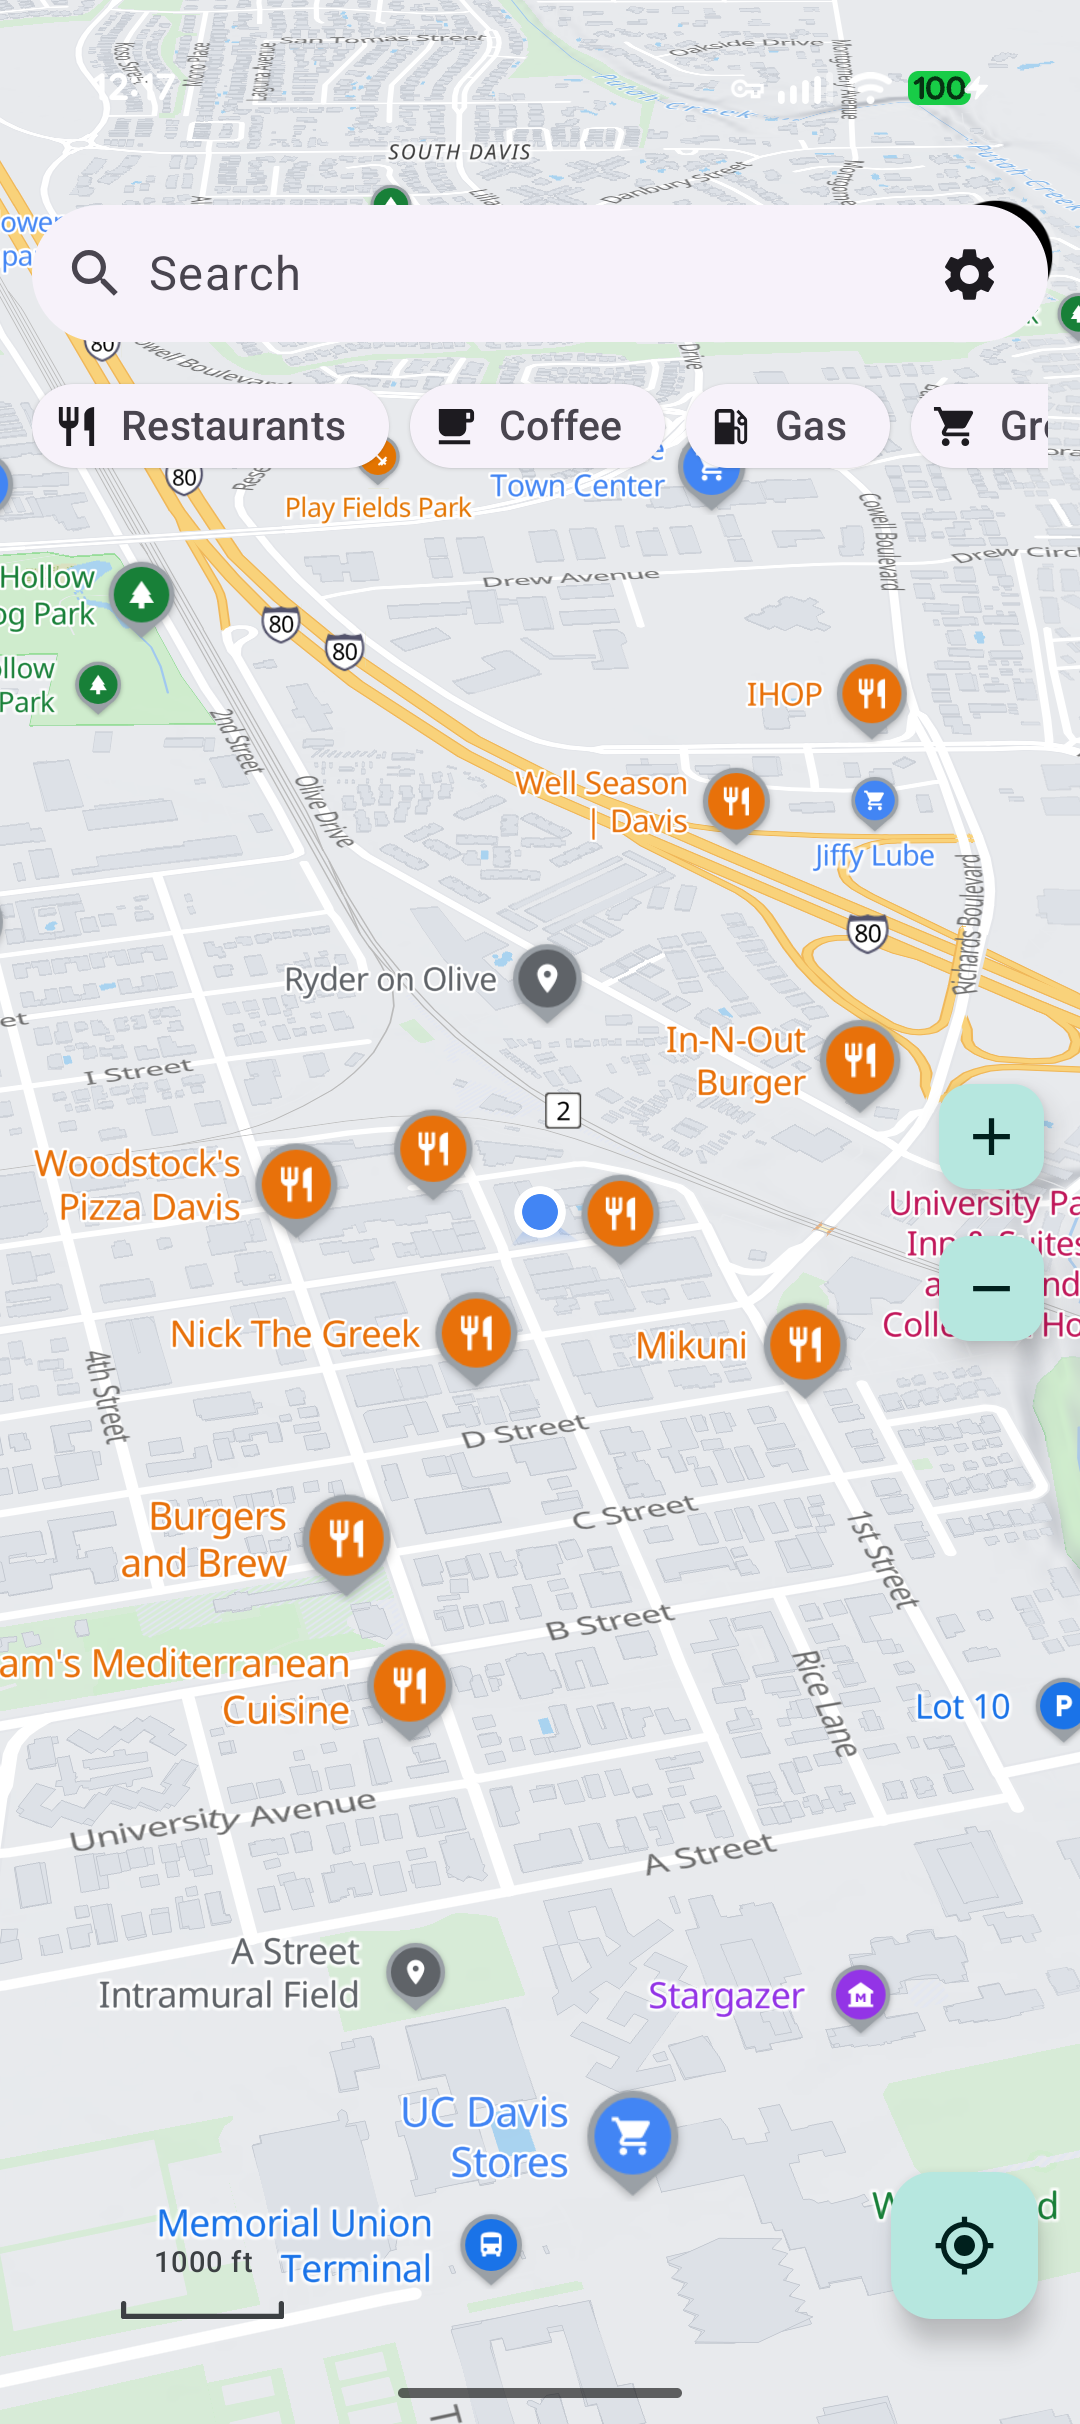
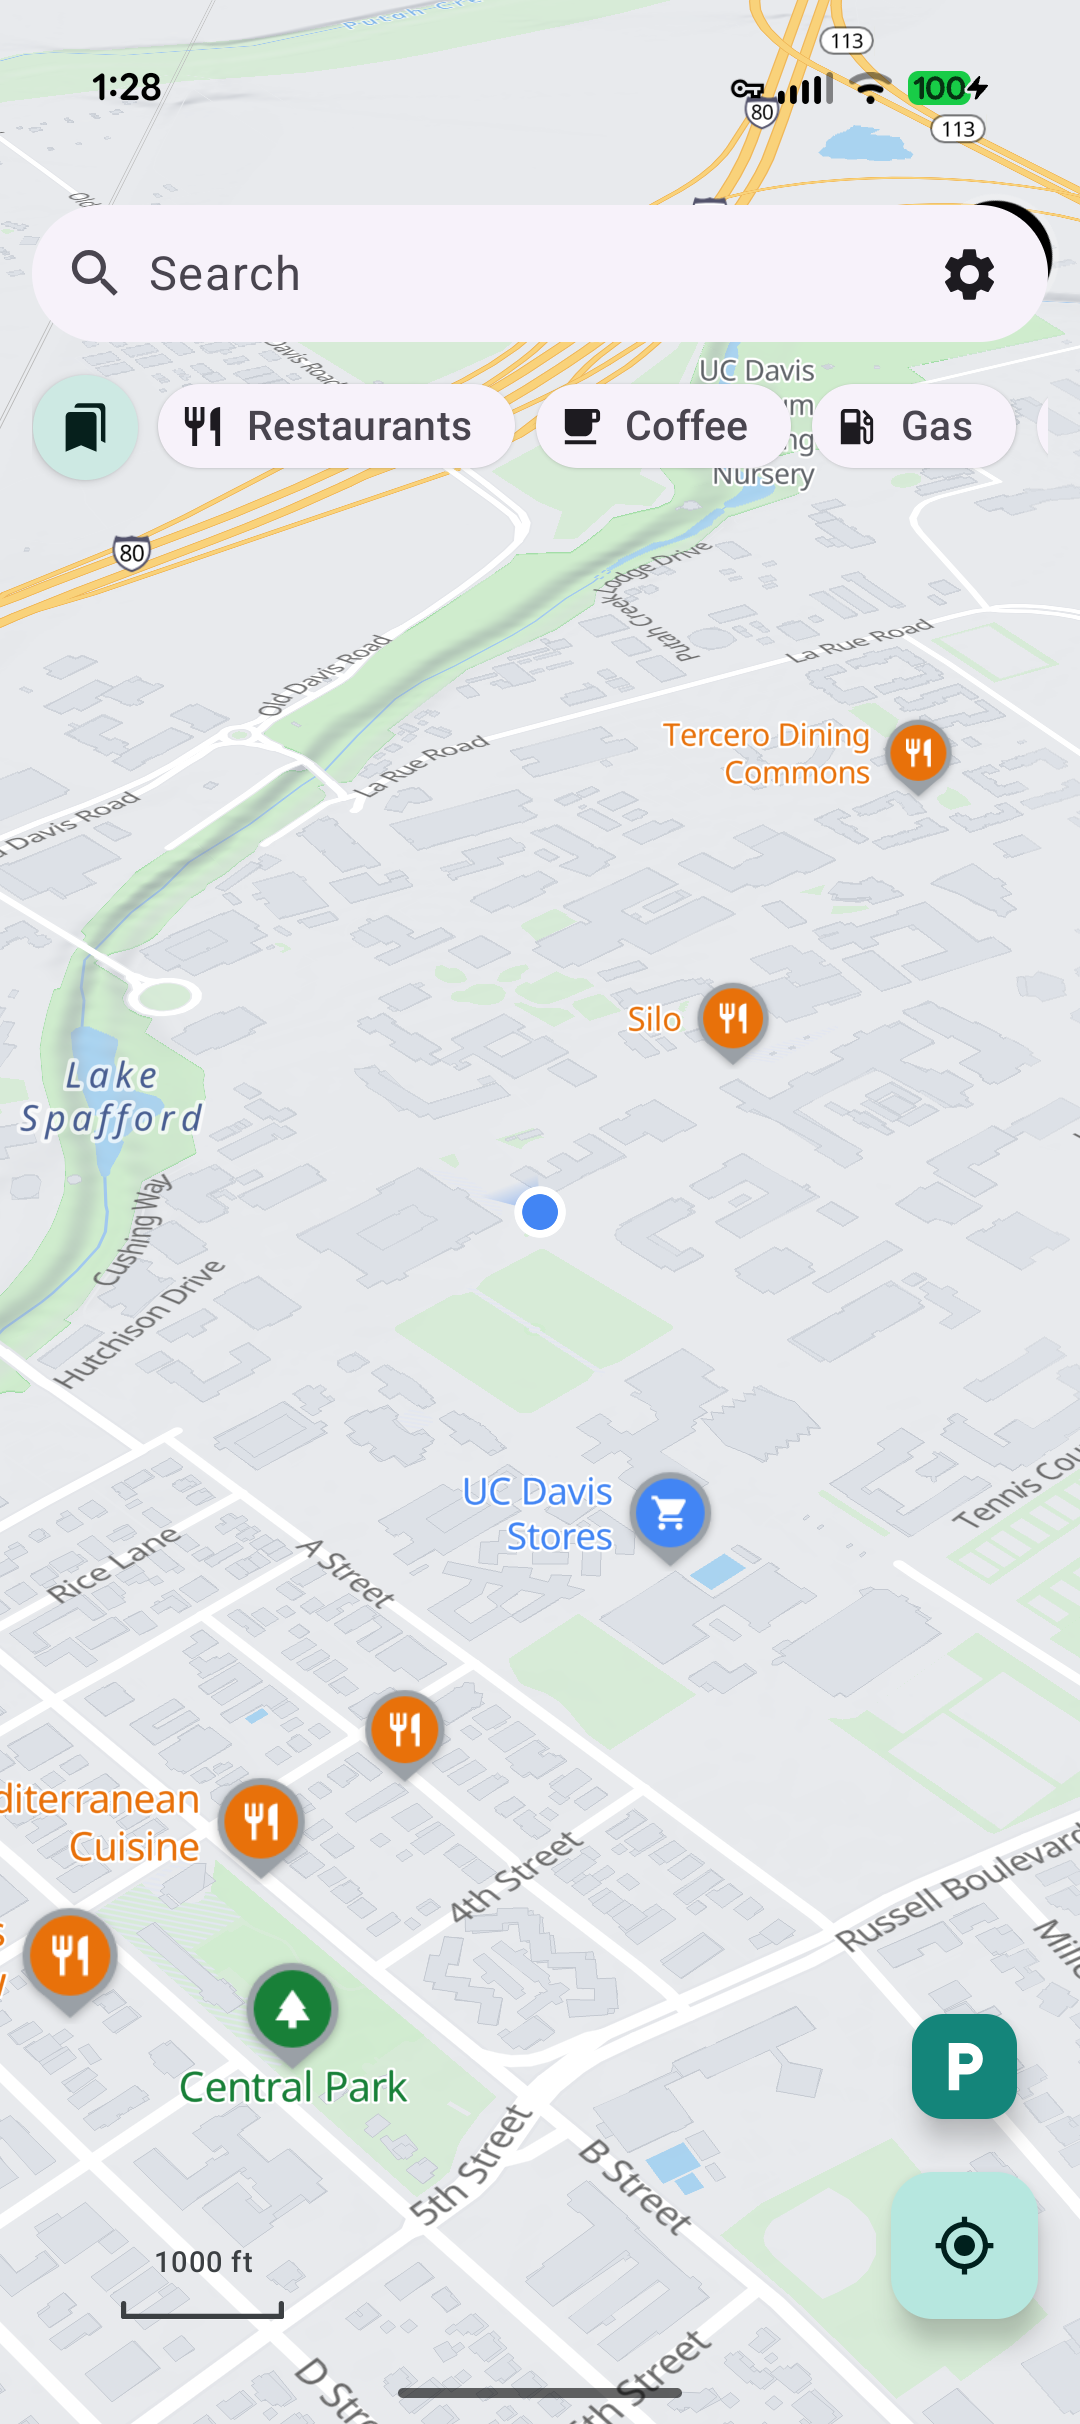
Fresh Davis screenshots and a plain-words guide to parking, lists and import
Retook the map, light-map and light-place screenshots in Davis with the
demo location tools (they now show the lists ribbon and parking button
naturally). README gets an 'Everyday features in ten seconds' section
covering the parking spot, lists, Google list import and the nightly
update toggle, plus capability rows for lists and parking and the
F-Droid repo in the distribution row.

diff --git a/README.md b/README.md
@@ -44,6 +44,20 @@ panel (alternates, depart-time, search-along-route); turn-by-turn navigation wit
 the maneuver banner + speedometer; and the in-app **light/dark** themes (decoupled
 from the OS).*
 
+## Everyday features in ten seconds
+
+- **Save your parking**: tap the **P** button on the map when you park. Tap the teal
+  pin later for walking directions back, or the pin's Clear button when you leave.
+  Long-press **P** for your parking history in case you overwrote a spot by mistake.
+- **Lists**: the bookmark button next to the category chips opens **Your lists**.
+  Create one there, or add any place from its page (⋮ → Save to list), with a note
+  per place. Lists back up to a file from Settings.
+- **Import a Google Maps list**: paste a `maps.app.goo.gl` share link into the
+  search bar. The list's places show up as results with the owner's notes; tap
+  **Save list** to keep a local copy.
+- **Nightly builds**: Settings → Version → "Include nightly builds" updates you to
+  the newest build instead of weekly stable.
+
 ## Why a degoogled app uses Google
 
 A phone without Google Play Services cannot run Google Maps, and the open map
@@ -136,8 +150,10 @@ The one-screen map of *what Vela does* and *how*, with the entry point to read n
 | **Android Auto (full nav)** | Navigation-category CarAppService with car-side search, route preview with live-traffic alternates, and active turn-by-turn (turn card, "then" step, lane diagram, cluster support). The map renders through MapLibre's MapSnapshotter with route map-matching and smoothed puck motion. Sideloads show up with AA's "Unknown sources" on | `app/car/` (`VelaCarAppService.kt`, `CarMapRenderer.kt`, `screen/`) |
 | **Location & heading** | AOSP `LocationManager` + raw rotation-vector sensor - never GMS/Fused | `core/location/` |
 | **D-pad-only operation** | The whole UI works with a 5-key D-pad, no touchscreen (touch is a bonus): key-drivable map (arrows pan, OK-at-crosshair taps, hold-OK drops a pin, on-screen zoom buttons), focus rings, key alternatives for every gesture | [`docs/dpad.md`](docs/dpad.md), `app/ui/DpadFocus.kt`, `app/ui/map/MapDpadController.kt` |
+| **Lists & Google Maps list import** | Local place lists (icon + colour, notes per place, export/import to a file); pasting a Google Maps share link previews the list's places with a one-tap Save | `core/data/PlaceListStore.kt`, `core/data/google/parse/EntityListParser.kt` |
+| **Parking spot memory** | One tap on the P button saves where you parked (teal pin, walking directions back); long-press for the history so an accidental overwrite never loses the car | `core/data/ParkingStore.kt` |
 | **Fix drift without an app update** | ECDSA-signed remote `calibration.json` (pb templates, field-index paths, JS transforms) + notices, verified against a pinned key | `core/config/CalibrationStore.kt`, SPEC §5 |
-| **Distribution** | Push to `main` → signed nightly prerelease; weekly promote to stable (same APK); Obtainium tracks stable by default, nightlies via the prerelease toggle | `.github/workflows/ci.yml` + `promote-stable.yml` |
+| **Distribution** | Push to `main` → signed nightly prerelease; weekly promote to stable (same APK); Obtainium tracks stable by default, nightlies via the prerelease toggle; a self-hosted F-Droid repo serves both channels ([FDROID.md](FDROID.md)) | `.github/workflows/ci.yml` + `promote-stable.yml` + `fdroid-repo.yml` |
 
 ## Docs - where to look
 
